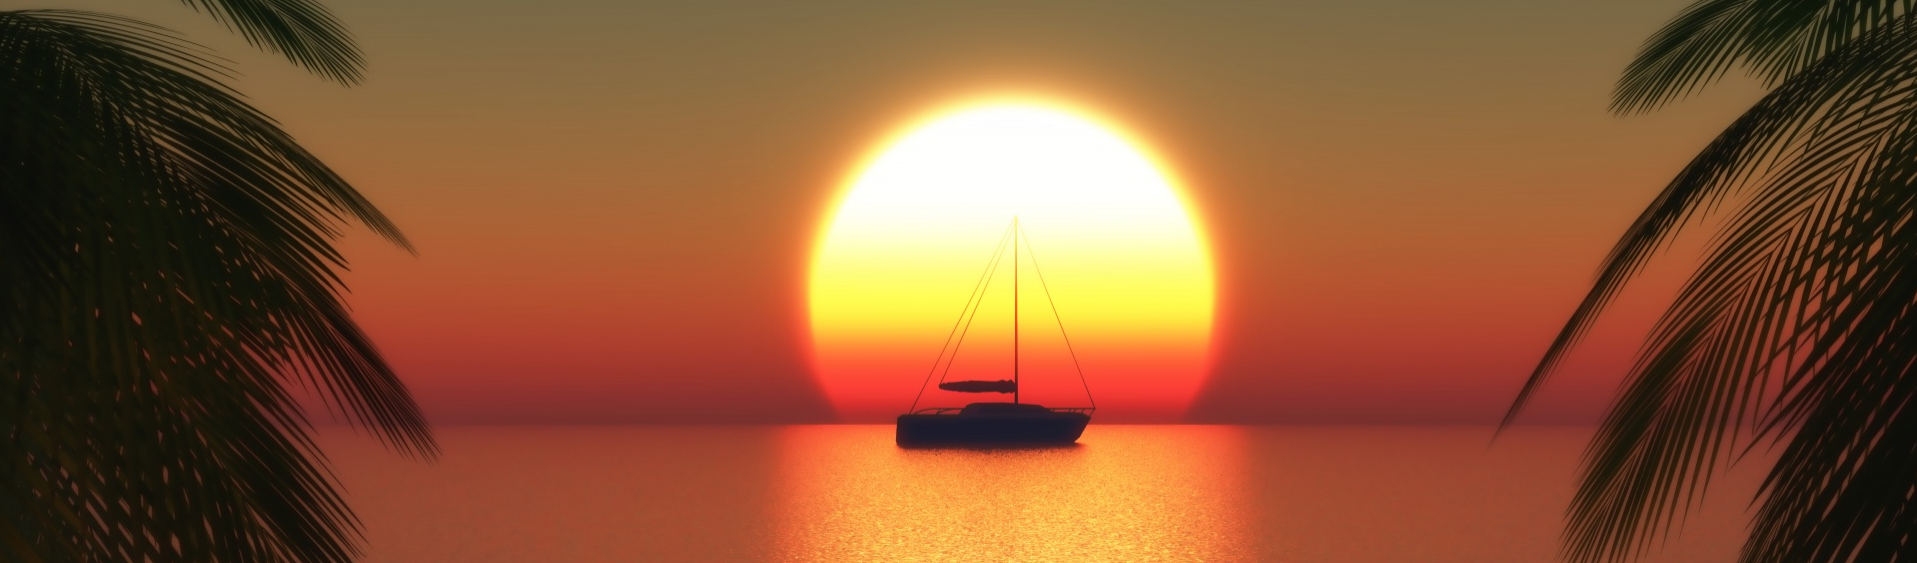
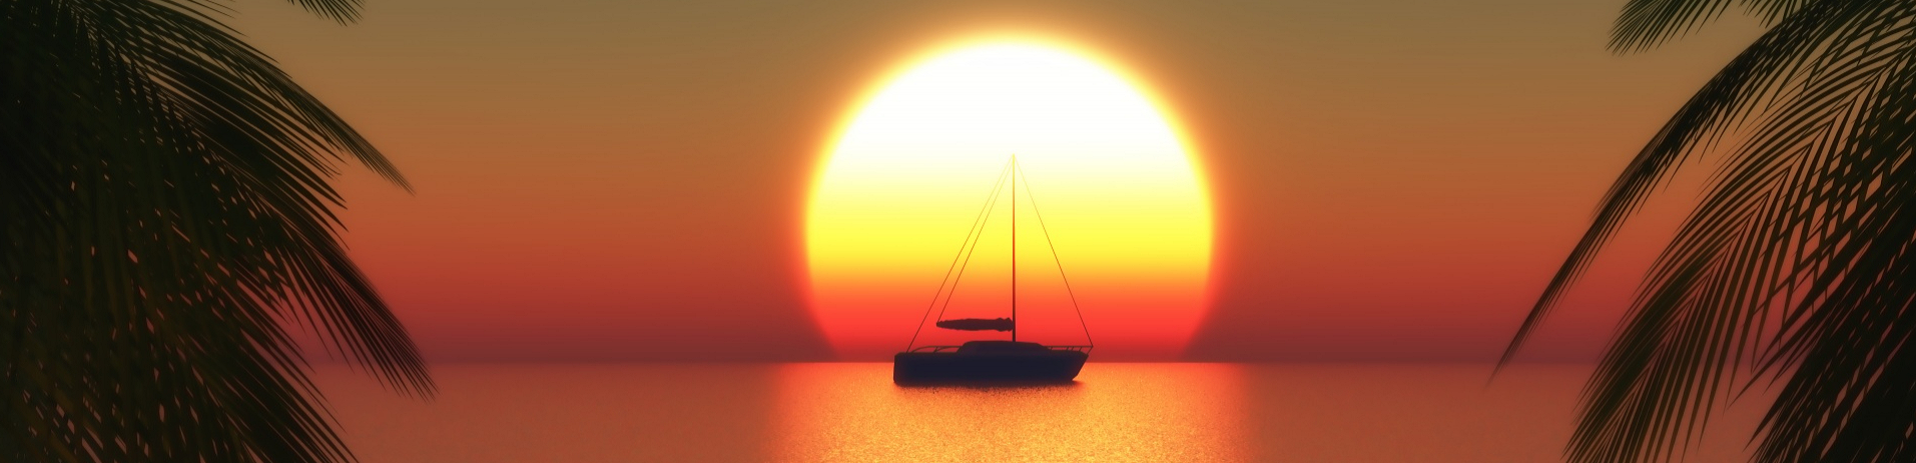
коррекция стилей

diff --git a/src/assets/styles/style.scss b/src/assets/styles/style.scss
@@ -55,17 +55,17 @@ ul {
 }
 
 .banner {
-  // margin-bottom: 96px;
+  margin-bottom: 69px;
   position: relative;
   overflow: hidden;
-  width: 100%;
-  min-height: 964px;
+  // width: 100%;
+  min-height: 550px;
   // border: 1px solid white;
   // border-radius: 40px;
-  background-image: url("../img/banner-playing-the-saxophone.png");
+  background-image: url("../img/banner-playing-the-saxophone4.jpg");
   background-position: top;
   background-repeat: no-repeat;
-  background-size: contain;
+  background-size: cover;
   // animation: kenburns-top 5s ease-out both;
 
   &__box {

diff --git a/src/pages/MainComponent.vue b/src/pages/MainComponent.vue
@@ -1,8 +1,8 @@
 <template>
   <HeaderComponent />
 
-  <section class="banner">
-    <div class="banner__box center">
+  <section class="banner center">
+    <div class="banner__box">
       <div class="banner__content">
         <div class="banner__subcontent">
           <h1 class="banner__heading">Музыкальная мастерская</h1>

diff --git a/src/assets/styles/_blog-details.scss b/src/assets/styles/_blog-details.scss
@@ -3,8 +3,7 @@
 
 .blogdetails-banner {
   min-height: 351px;
-  margin-top: -12px;
-  margin-bottom: 100px;
+  margin-bottom: 69px;
   background-image: url("../img/blog/blogdetails_photo.png");
   background-position: center;
   background-repeat: no-repeat;

diff --git a/src/assets/styles/_blog.scss b/src/assets/styles/_blog.scss
@@ -2,8 +2,8 @@
 @import "headerfooter";
 
 .blogBanner {
-  height: 356px;
-  margin-bottom: 40px;
+  min-height: 356px;
+  margin-bottom: 69px;
   background-image: url("../img/events.png");
   background-position: center;
   background-repeat: no-repeat;

diff --git a/src/assets/styles/_headerfooter.scss b/src/assets/styles/_headerfooter.scss
@@ -2,8 +2,8 @@
 @import "fonts";
 
 .header {
-  margin-top: 53px;
-  margin-bottom: 57px;
+  margin-top: 44px;
+  margin-bottom: 44px;
   height: 50px;
 
   &__menubar {
